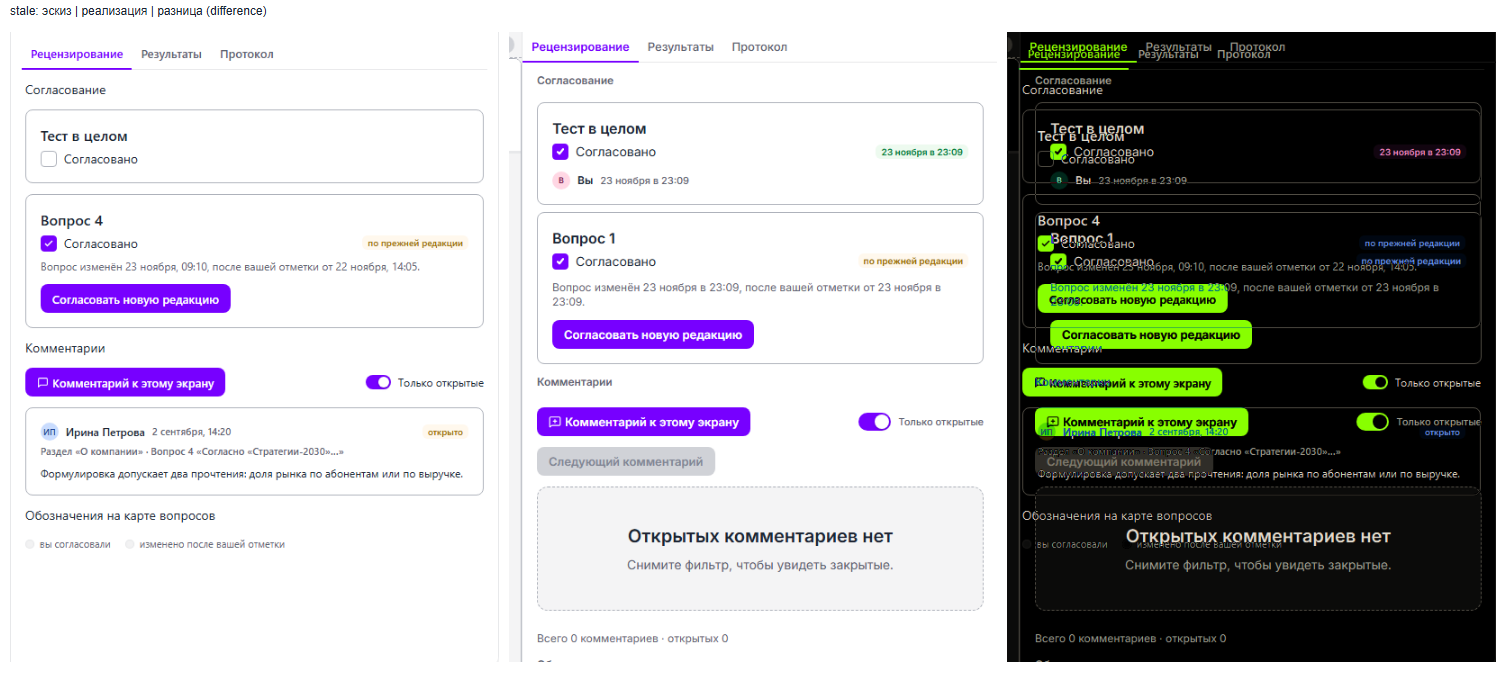
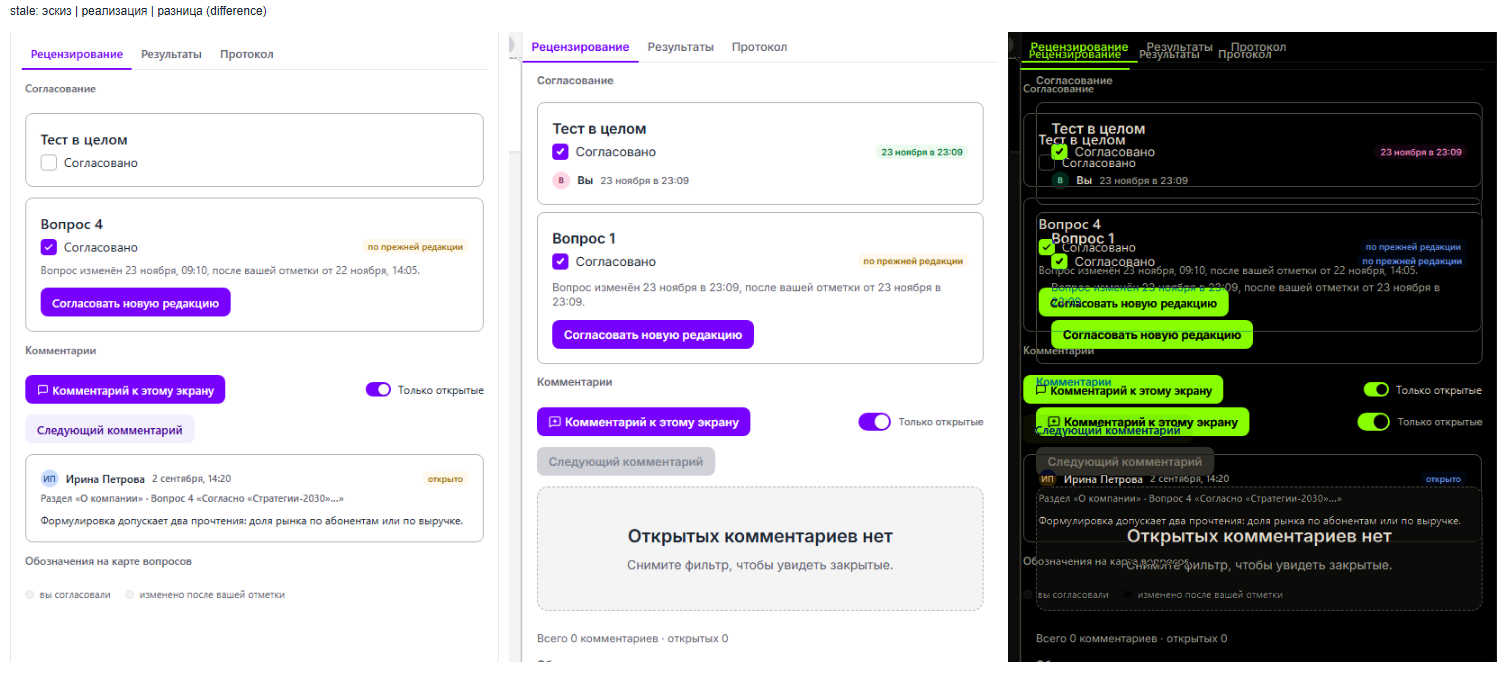
fix(review): подсказка точки без переноса строк, кнопка обхода комментариев в эскизе
Строка рецензента в подсказке точки карты больше не переносится: длинное
имя обрезается многоточием (полное имя в title), дата и тег остаются в
строке. В эскиз добавлена кнопка «Следующий комментарий» из ленты
комментариев. Остальные пункты issue 67 оказались артефактом сборки кадров
эскиза (dev-сервер отдавал tb-components.css как HTML): кадры пересняты с
настоящими стилями, отчёт приёмки исправлен. Closes #67

diff --git a/client/src/features/tests/review/__tests__/review-approval-tooltip.test.tsx b/client/src/features/tests/review/__tests__/review-approval-tooltip.test.tsx
@@ -1,0 +1,51 @@
+/**
+ * @module features/tests/review/__tests__/review-approval-tooltip.test
+ * @description The author's tooltip over a question dot: rows do not wrap, a long reviewer name is cut with an
+ * ellipsis and keeps the full name in `title` (issue 67). Hooks are mocked: the frame is not under test here.
+ */
+import { afterEach, describe, expect, it, vi } from "vitest";
+import { cleanup, render, screen } from "@testing-library/react";
+
+const hooks = vi.hoisted(() => ({
+  active: { index: 1, rect: { left: 10, top: 10, width: 20, height: 20 } },
+  approvals: { viewer: "author", approvals: [] as unknown[], circle: [] as unknown[] },
+}));
+
+vi.mock("../use-approval-tooltip", () => ({ useApprovalTooltip: () => hooks.active }));
+vi.mock("../use-review-approvals", () => ({ useReviewApprovals: () => hooks.approvals }));
+vi.mock("../delivery-order", () => ({ deliveredQuestionIds: () => ["q0", "q1", "q2"] }));
+
+import { ReviewApprovalTooltip } from "../review-approval-tooltip";
+
+const LONG = "Приёмка приглашения с очень длинным именем рецензента Иванов-Петров-Сидоров";
+
+function renderTooltip() {
+  const frameRef = { current: { contentWindow: {} } as unknown as HTMLIFrameElement };
+  return render(<ReviewApprovalTooltip frameRef={frameRef} testId="t1" tick={null} />);
+}
+
+describe("<ReviewApprovalTooltip />", () => {
+  afterEach(() => {
+    cleanup();
+    hooks.approvals = { viewer: "author", approvals: [], circle: [] };
+  });
+
+  it("keeps rows on one line and cuts a long name, keeping it whole in the title", () => {
+    hooks.approvals = {
+      viewer: "author",
+      approvals: [],
+      circle: [
+        { userId: "r1", name: "Ирина Петрова", accepted: true },
+        { userId: "r2", name: LONG, accepted: true },
+      ],
+    };
+    renderTooltip();
+    const rows = screen.getAllByTestId("approval-tooltip-row");
+    expect(rows).toHaveLength(2);
+    for (const row of rows) expect(row.className).toContain("rvt__row");
+    const long = screen.getByText(LONG);
+    expect(long.className).toContain("rvt__name");
+    expect(long.getAttribute("title")).toBe(LONG);
+    expect(screen.getAllByText("не согласовал")).toHaveLength(2);
+  });
+});

diff --git a/client/src/features/tests/review/review-approval-tooltip.tsx b/client/src/features/tests/review/review-approval-tooltip.tsx
@@ -12,6 +12,7 @@ import { deliveredQuestionIds } from "./delivery-order";
 import { initialsOf, when } from "./review-format";
 import { useApprovalTooltip } from "./use-approval-tooltip";
 import { useReviewApprovals } from "./use-review-approvals";
+import "./review-panel.css";
 
 export interface ReviewApprovalTooltipProps {
   frameRef: RefObject<HTMLIFrameElement | null>;
@@ -60,9 +61,9 @@ export function ReviewApprovalTooltip({ frameRef, testId, tick }: ReviewApproval
         {tooltip ? (
           <Stack gap={2}>
             {tooltip.rows.map((row) => (
-              <Cluster key={row.userId} gap={2} align="center" className="rva__person">
+              <Cluster key={row.userId} gap={2} align="center" wrap={false} className="rvt__row" data-testid="approval-tooltip-row">
                 <Avatar size="xs" initials={initialsOf(row.name, false)} />
-                <strong className="rvp__who">{row.name || "Рецензент"}</strong>
+                <strong className="rvp__who rvt__name" title={row.name || undefined}>{row.name || "Рецензент"}</strong>
                 {row.iso ? (
                   <span className="rvp__when">{when(row.iso)}</span>
                 ) : (

diff --git a/client/src/features/tests/review/review-panel.css b/client/src/features/tests/review/review-panel.css
@@ -55,3 +55,8 @@
 .rvs__legend > .ou-tag:first-child { margin-left: 0; }
 .rvs__pager { display: flex; align-items: center; justify-content: space-between; gap: var(--ou-space-3); }
 .rvs__pager-btns { display: inline-flex; gap: var(--ou-space-1); }
+
+/* Подсказка точки карты у автора (issue 67): строка рецензента без переноса. Длинное имя обрезается многоточием,
+   дата и тег остаются в строке и не сжимаются. */
+.rvt__row > * { flex: none; }
+.rvt__row > .rvt__name { flex: 0 1 auto; min-width: 0; overflow: hidden; text-overflow: ellipsis; white-space: nowrap; }

diff --git a/docs/wireframes/approved/prd52-review-approval.html b/docs/wireframes/approved/prd52-review-approval.html
@@ -391,6 +391,10 @@
                     <span class="wf-toggle__lbl">Только открытые</span>
                   </label>
                 </div>
+                <!-- Обход веток по одной (лента комментариев): на втором ряду, неактивна, пока открытых веток нет. -->
+                <div class="wf-ins-toolbar">
+                  <button type="button" class="ou-btn ou-btn--secondary ou-btn--s"><span>Следующий комментарий</span></button>
+                </div>
 
                 <div class="ou-card ou-card--outlined ou-card--sm">
                   <div class="ou-card__body">

diff --git a/docs/reports/review-approval-acceptance.md b/docs/reports/review-approval-acceptance.md
@@ -43,7 +43,7 @@ headless Chromium через собственный CDP-драйвер (Playwrig
 | Строка про правку: эскиз называет время изменения вопроса | Закрыто: поле `changedAt`, колонка `questions.content_changed_at` (issue 61) |
 | Подсказка точки у автора со списком согласовавших | Закрыто: подсказка в окне отладки автора (issue 62) |
 | Порог карты вопросов в шаблоне (520 или 640 пикселей) | Закрыто: 700 пикселей, узкая страница резервирует ширину 5 точек (issue 63); на 521-539 пикселях кнопка «Все вопросы» по-прежнему переносится, решение владельца |
-| Ширины столбцов таблицы рецензентов: в реализации первый столбец шире | Косметика, не меняет смысла; см. issue 67 |
+| Ширины столбцов таблицы рецензентов: в реализации первый столбец шире | Не расхождение: ширина следует длине значений, стили таблицы совпадают (issue 67) |
 
 ## Дополнительная приёмка: тёмная тема, Compact, наложение кадров, письмо и ссылка (issue 64)
 
@@ -64,7 +64,7 @@ headless Chromium через собственный CDP-драйвер (Playwrig
 | --- | --- |
 | Вкладка «Рецензирование» редактора в четырёх сочетаниях: рейл, таблица рецензентов, фильтр, сводка, матрица | Пройдено: горизонтальной прокрутки и обрезки нет, контраст бейджей в матрице достаточный |
 | Окно рецензента в четырёх сочетаниях: карточки, строка «изменён ... после вашей отметки», бейджи и легенда на карте | Пройдено: перенос и обрезки нет, бейджи на точках читаются на светлом кадре пакета |
-| Подсказка точки у автора в тёмной теме и Compact | Пройдено: подсказка читается; при длинном имени тег «не согласовал» переносится (issue 67) |
+| Подсказка точки у автора в тёмной теме и Compact | Пройдено: подсказка читается; при длинном имени тег «не согласовал» переносился; исправлено, строка не переносится (issue 67) |
 | Кадр пакета в тёмной теме | Остаётся светлым: тему кадра задаёт шаблон оформления теста, а не окно рецензирования |
 
 ![Редактор, тёмная тема](review-approval-acceptance/editor-dark.png)
@@ -86,6 +86,10 @@ headless Chromium через собственный CDP-драйвер (Playwrig
 (`mix-blend-mode: difference`). Данные в эскизе и в реализации разные (16 вопросов против 148, другие имена), поэтому
 сравнивалась раскладка, а не текст.
 
+Первая сборка кадров была неверной: dev-сервер отдавал `tb-components.css` эскиза как HTML (запасная страница
+приложения), поэтому в эскизе не работали стили `tb-section-label` и `tb-table`, и часть «расхождений» была
+артефактом. Кадры пересняты с подменой этого файла на настоящий, выводы ниже относятся к ним.
+
 | Состояние | Результат |
 | --- | --- |
 | Редактор, «все разделы» (`sum`) | Раскладка совпадает: рейл, таблица рецензентов, фильтр, поиск, выбор рецензента, список разделов |
@@ -93,9 +97,13 @@ headless Chromium через собственный CDP-драйвер (Playwrig
 | Окно рецензента, «тест целиком» (`test`) | Совпадает: две карточки по эскизу при том, что на стартовом экране в реализации вторая карточка скрыта (issue 65, осознанное расхождение) |
 | Окно рецензента, «объект изменён» (`stale`) | Совпадает: тег «по прежней редакции», строка со временем правки, кнопка «Согласовать новую редакцию» |
 
-Найденные мелкие расхождения заведены одним issue 67: подписи разделов в окне рецензента (в эскизе обычный текст,
-в реализации мелкая жирная подпись), лишняя кнопка «Следующий комментарий» из ленты комментариев, выравнивание
-столбцов таблицы рецензентов и серая шапка таблицы, перенос тега в подсказке при длинном имени.
+Итог по issue 67 после пересъёмки: подписи разделов (`tb-section-label`) и серая шапка таблицы совпадают с эскизом,
+выравнивание столбцов одинаковое (по левому краю), отличается только ширина столбцов из-за разной длины
+значений. Настоящих расхождений два, оба закрыты: в эскиз добавлена кнопка «Следующий комментарий» из ленты
+комментариев, а строка подсказки точки у автора больше не переносится (длинное имя обрезается многоточием, полное
+имя в `title`).
+
+![Подсказка точки, длинное имя рецензента](review-approval-acceptance/tooltip-long-name.png)
 
 ![Наложение, все разделы](review-approval-acceptance/diff-sum.png)
 
